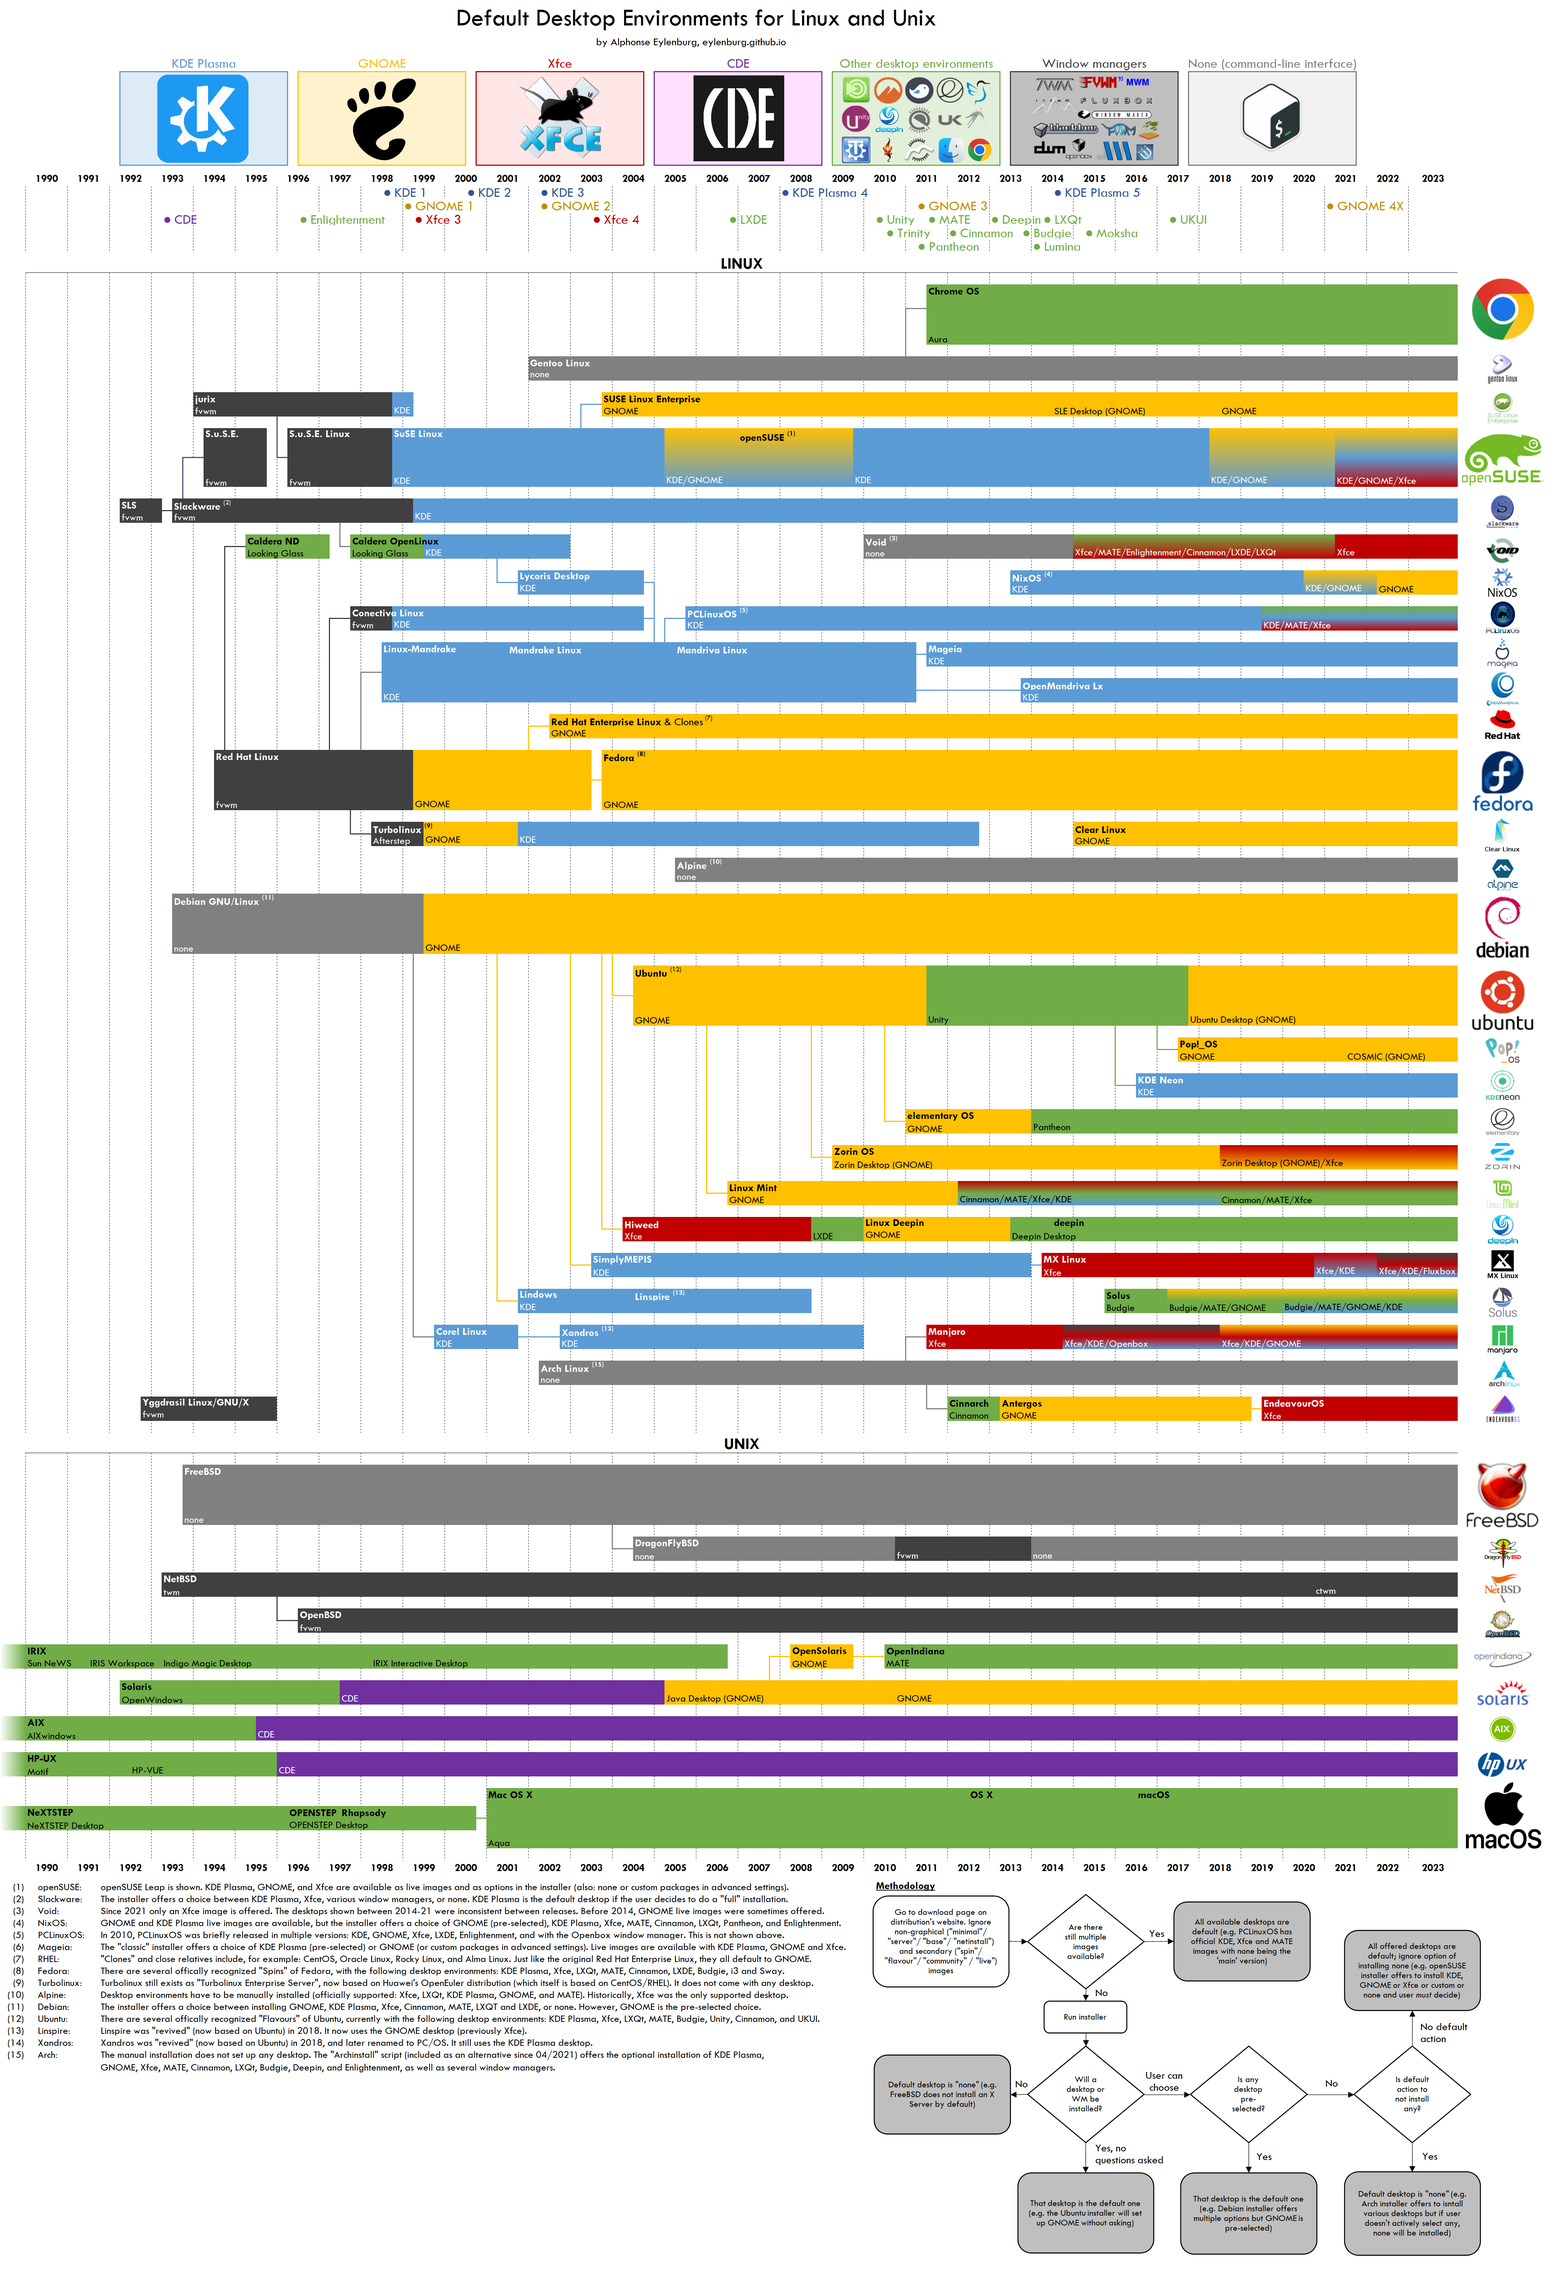
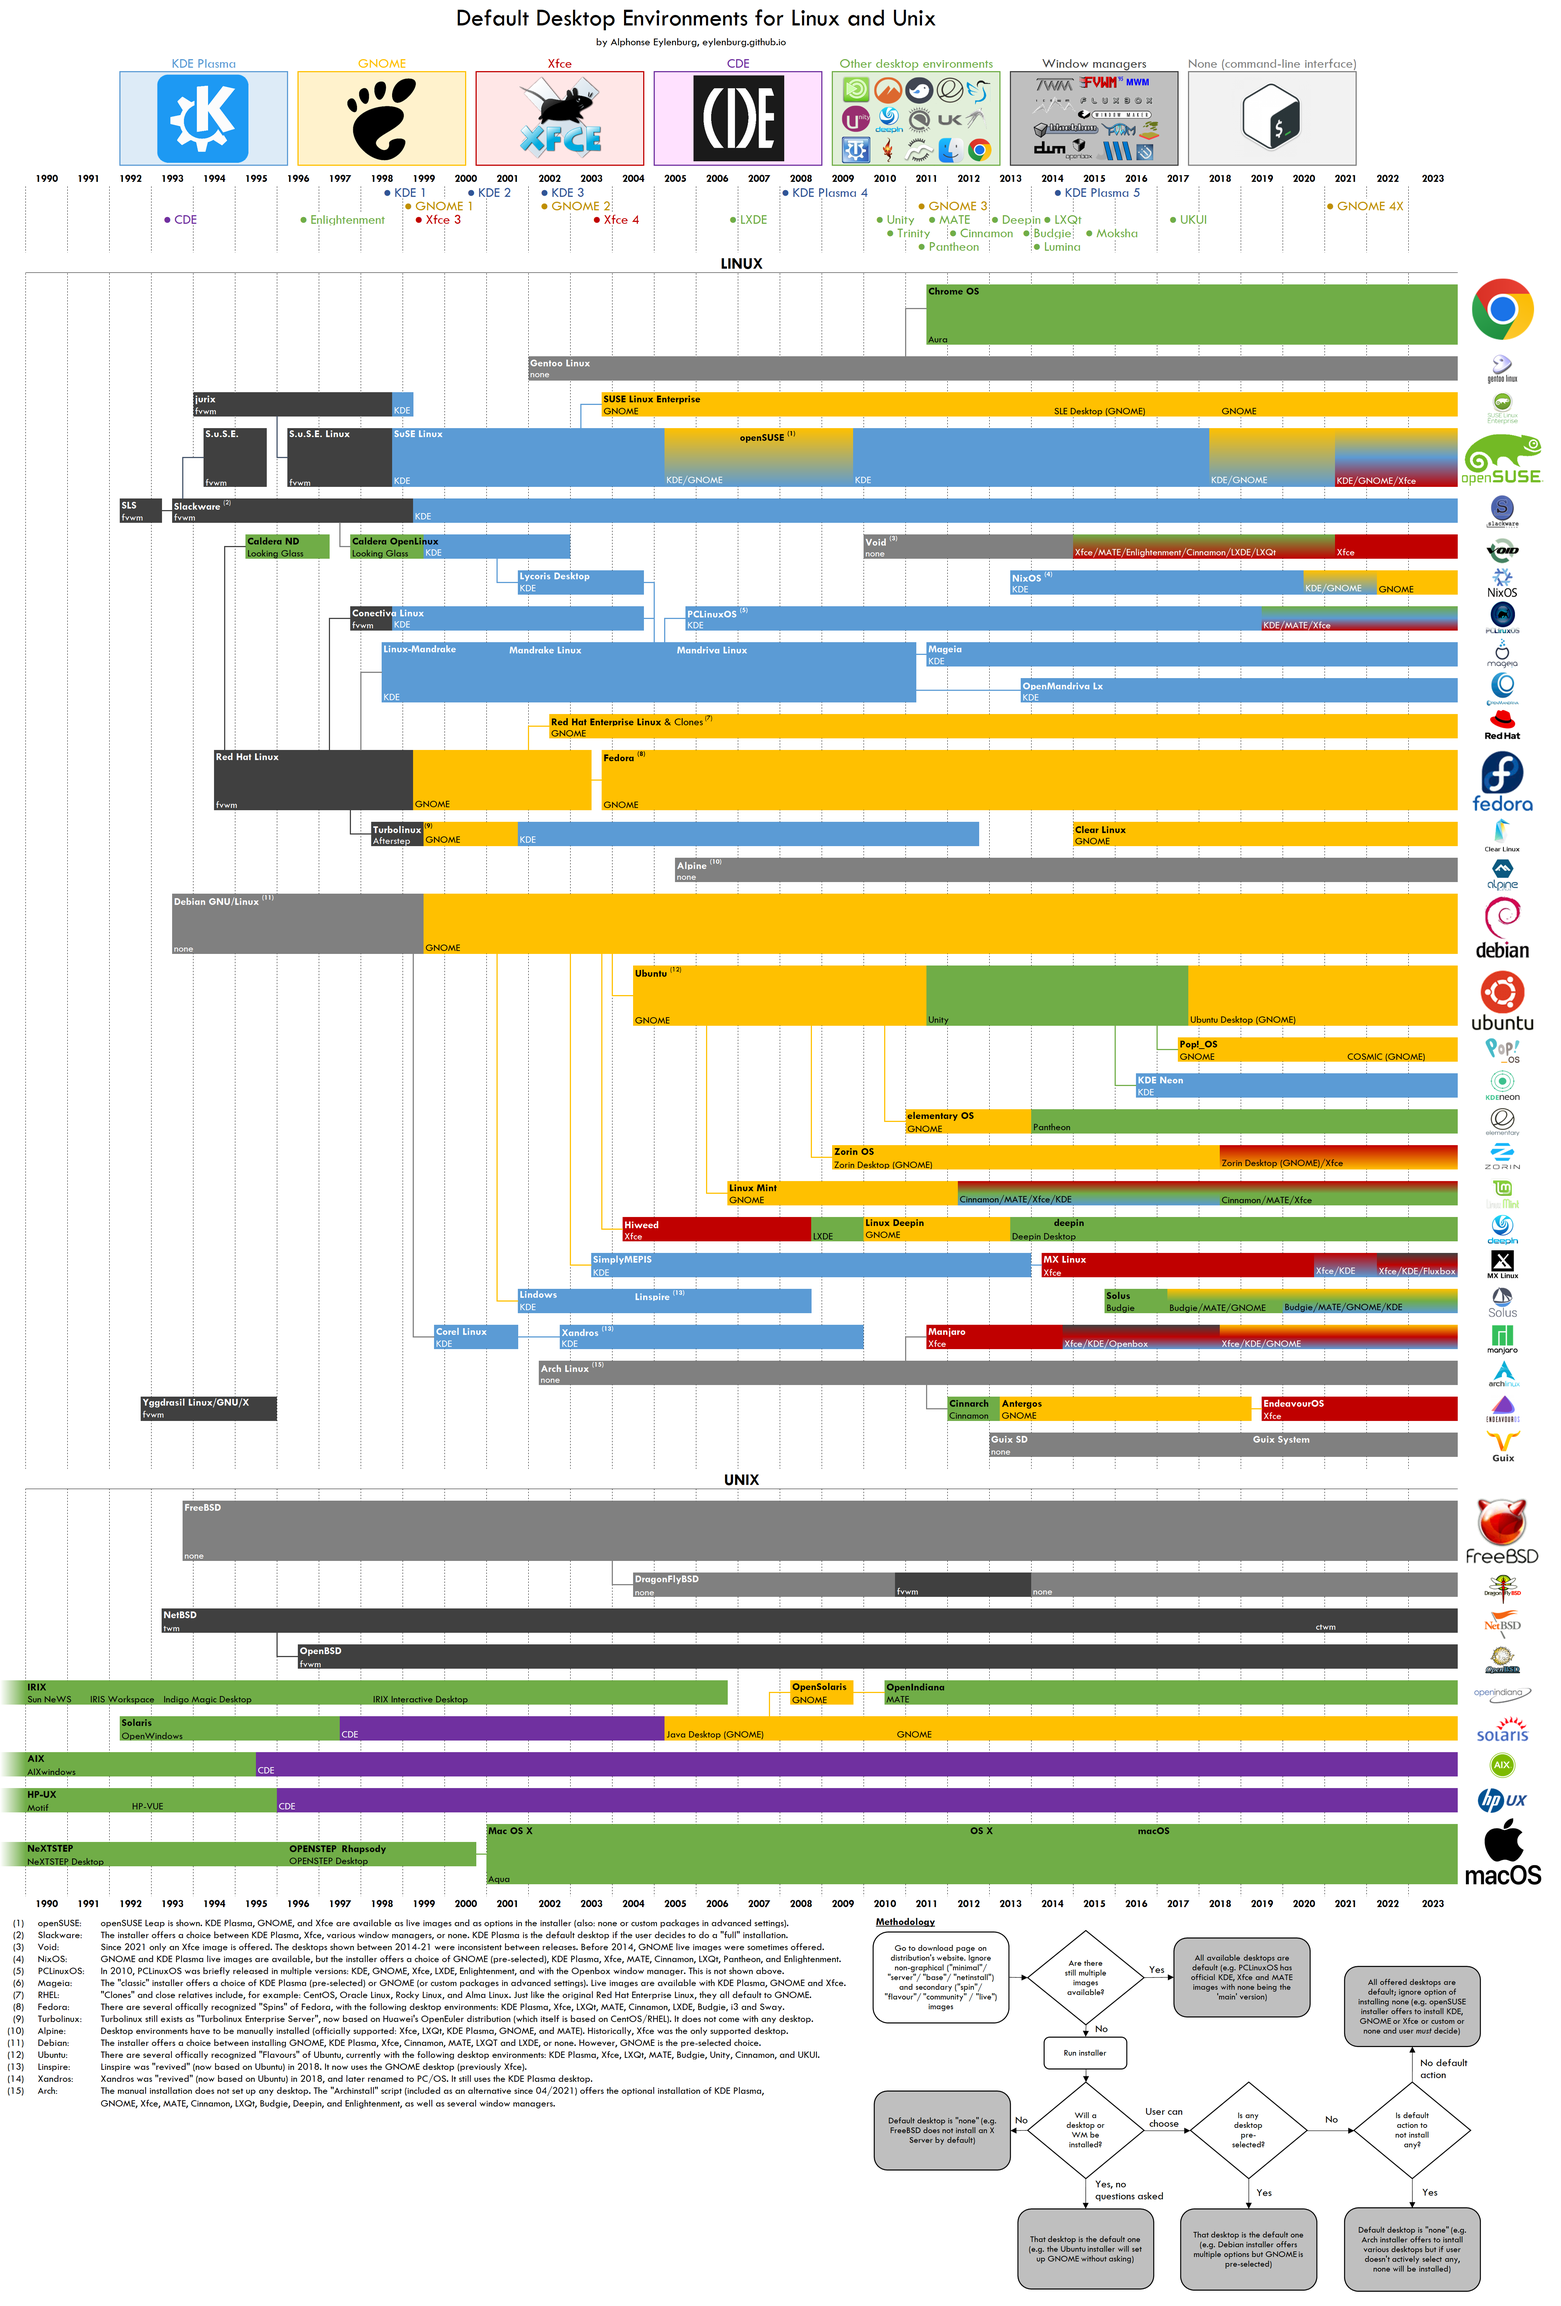
added guix to default DE timeline

diff --git a/index.html b/index.html
@@ -33,7 +33,7 @@
 <br />Also includes are very exhaustive list of available desktop environments, including discontinued and mobile ones.
 <br />Also shown: Screenshots and short personal reviews of all the major desktops!</p>
 
-<h2><strong><a href="de_default.htm">Default Desktop Environments for Linux and Unix</a></strong></h2><p> <span class="gold">(last update: May 2023)</span>
+<h2><strong><a href="de_default.htm">Default Desktop Environments for Linux and Unix</a></strong></h2><p> <span class="gold">(last update: June 2023)</span>
 <br />Timeline since 1990 showing the most important distributions and their default desktops (KDE, GNOME, Xfce and others)</p>
 
 <h2><strong><a href="linux_distros_over_time.htm#today">Linux distributions over time</a></strong></h2><p> <span class="gold">(last update: April 2023)</span> <span style="color: red; font-weight: bold;">MAJOR UPDATE!</span>

diff --git a/de_default.htm b/de_default.htm
@@ -29,7 +29,7 @@
 
 <h1>Default Desktop Environments for Linux and Unix</h1>
 <h2>Timeline since 1990 showing the most important distributions</h2>
-<p style="color: red; font-size: small;">Last updated: May 2023</p>
+<p style="color: red; font-size: small;">Last updated: June 2023</p>
 
 <p>The picture below shows the standard/default desktop environments used by the most popular Linux distributions and Unix systems, since 2020. Please note the small annotations that explain why a desktop environment was determined to be the default choice or not, as this is not straightforward for every distribution. Generally, I have regarded a desktop as being the "default" if either:</p>
 
